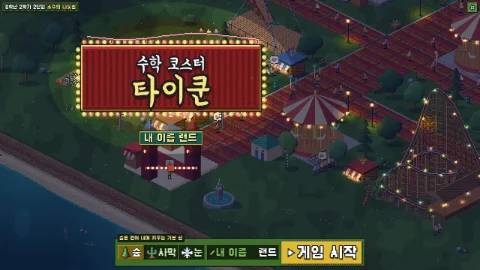
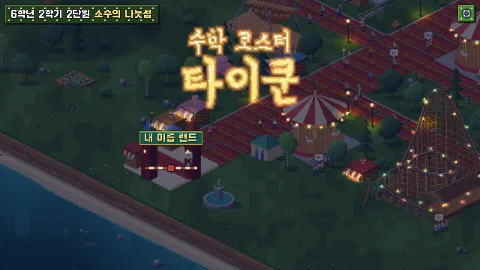
코스터 타이쿤 썸네일: 6-2판·3-2 분수판을 타이틀 불꽃 글씨 장면으로(썸네일 도구에 준비 단계)
Claude-Session: https://claude.ai/code/session_011cWCpwYSnSw2Evopy17yxA

diff --git a/tools/hub/make_thumbs.js b/tools/hub/make_thumbs.js
@@ -60,9 +60,10 @@ const PREP = {
   },
   start: async page => { await page.click('#btnStart'); await page.waitForTimeout(1500); },
   /* 3D 게임: 소프트웨어 렌더는 느리므로 게임 안 시간이 충분히 흐를 때까지(타이틀 로고가 다 떨어질 때까지) 기다린다 */
+  logo: async page => { await page.waitForFunction(() => typeof LOGO_FX !== 'undefined' && LOGO_FX.on, null, { timeout: 30000 }).catch(() => {}); },   // 불꽃 글씨 시작 → WAIT 뒤 글씨가 다 모인 장면
   gametime: async page => { await page.waitForFunction(() => window.GAME && GAME.T > 4, null, { timeout: 120000 }); },
 };
-const PREP_BY_ID = { 1: 'coaster', 49: 'coaster', 48: 'coaster', 11: 'coaster', 51: 'start', 70: 'gametime' };   // 50(6-2 코스터 v3)은 첫 화면이 곧 공원 장면이라 준비 없이 찍는다
+const PREP_BY_ID = { 1: 'coaster', 49: 'coaster', 48: 'coaster', 11: 'coaster', 51: 'start', 70: 'gametime', 50: 'logo', 71: 'logo' };   // 50·71(코스터 v4.1 픽셀판 6-2·3-2)은 타이틀 불꽃 글씨가 시작될 때까지 기다린 뒤 찍는다
 /* 선생님이 고른 화면이 따로 있는 게임은 그 그림을 줄여 쓴다 */
 const FROM_IMAGE = { 40: 'screenshots/07_후반_고조선시대_플레이화면.png' };
 
